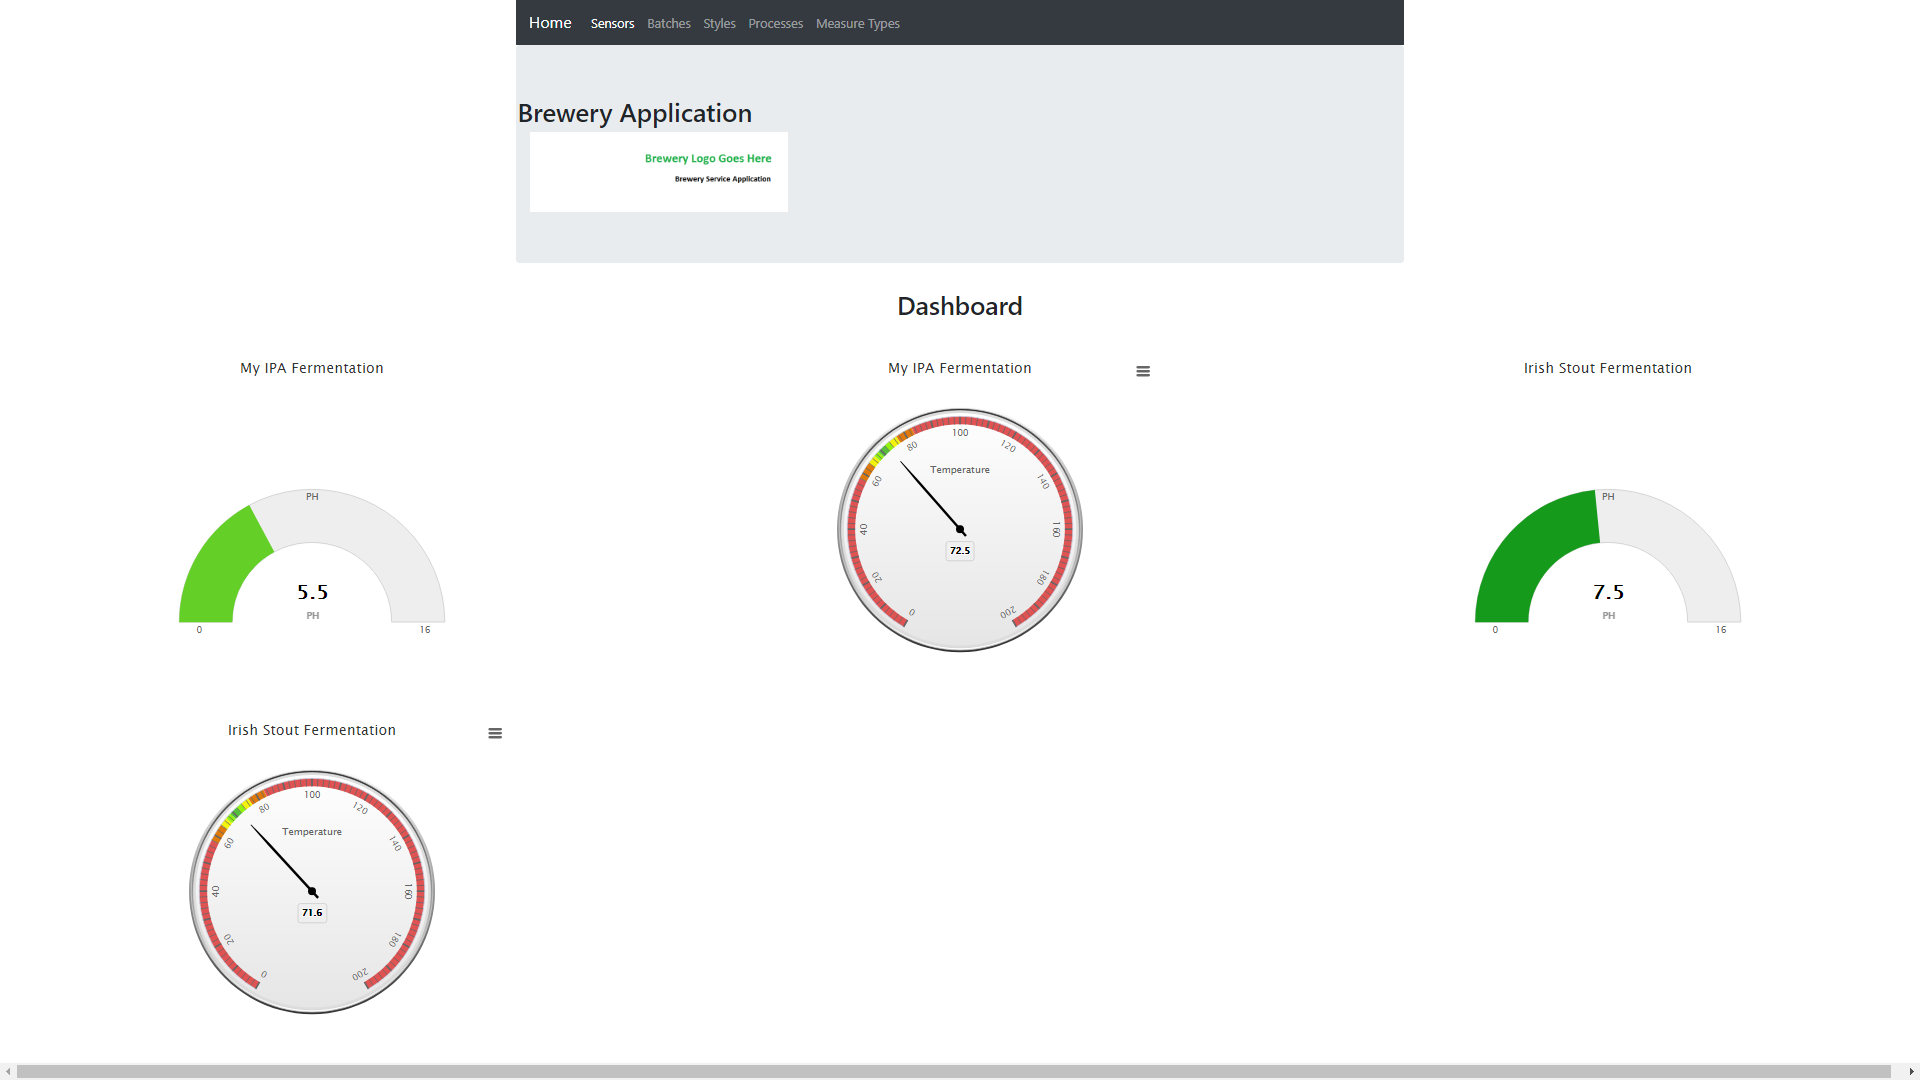
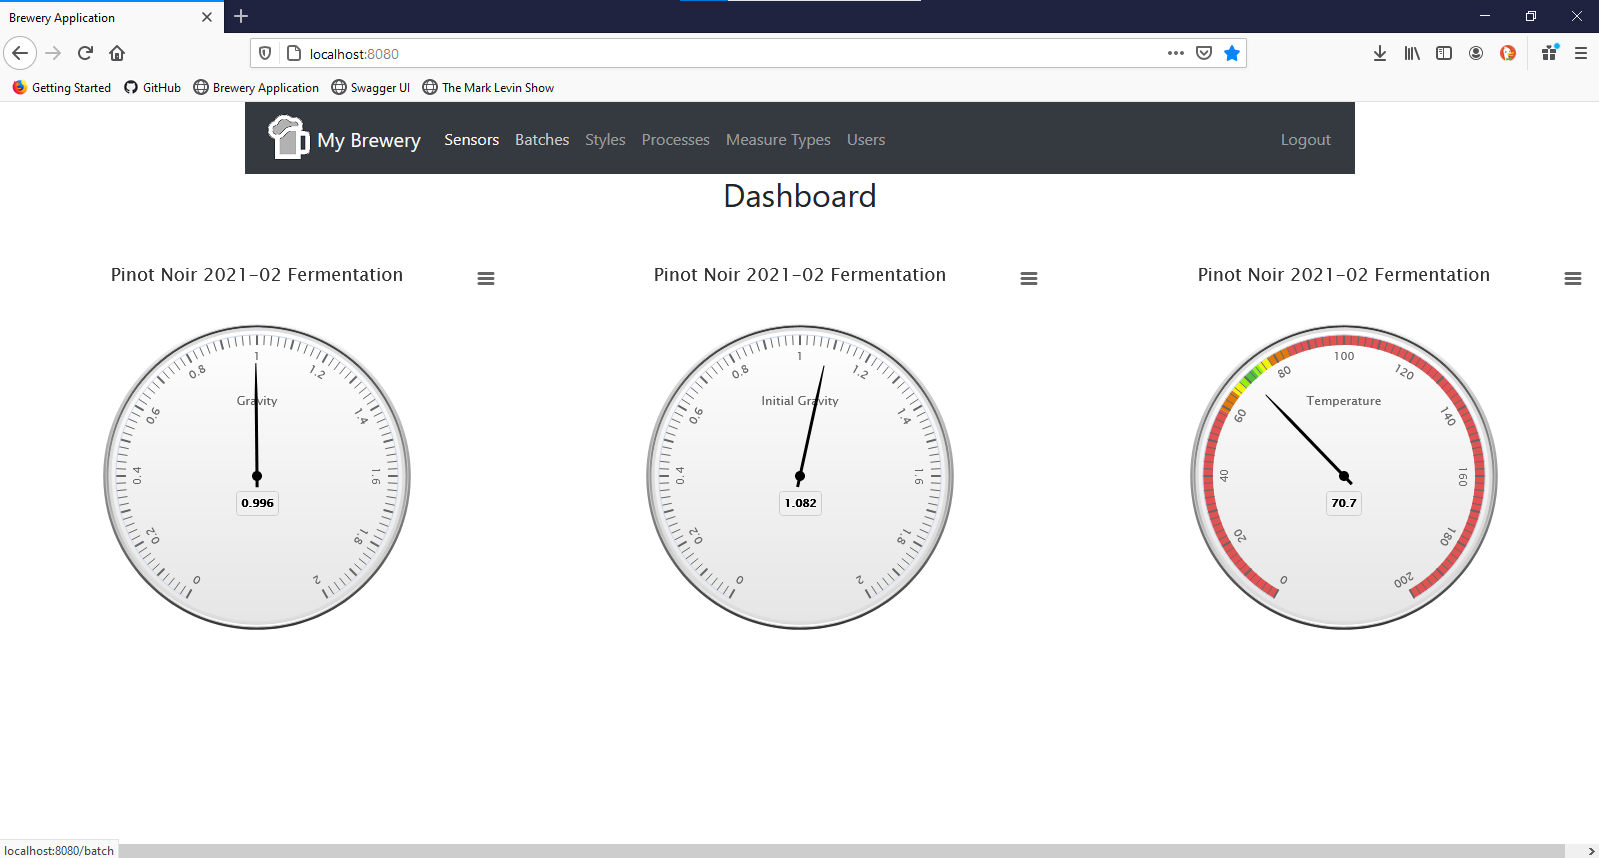
UI Updates

diff --git a/src/main/resources/templates/layout/header.html b/src/main/resources/templates/layout/header.html
@@ -12,7 +12,8 @@
 <div class="container">
     <div th:fragment="header">
 		<nav class="navbar navbar-expand-lg navbar-dark bg-dark">
-        	<a class="navbar-brand" href="#" th:href="@{/}">Home</a>
+			<img th:src="@{/images/TopLogo.png}"/>
+        	<a class="navbar-brand" href="#" th:href="@{/}">My Brewery</a>
       		<button class="navbar-toggler" type="button" data-toggle="collapse" data-target="#navbarsExample04" aria-controls="navbarsExample04" aria-expanded="false" aria-label="Toggle navigation" href="#">
         		<span class="navbar-toggler-icon"></span>
       		</button>
@@ -48,19 +49,6 @@
 				</ul>        		
       		</div>
     	</nav>        
-        
-        
-        <div class="jumbotron">
-            <div class="row text-center">
-                <div class="row">
-                    <h2>Brewery Application</h2>
-                </div>
-            </div>
-            <div class="row text-center">
-                <img src="../../static/images/Logo.png" width="30%"
-                     th:src="@{/images/Logo.png}" />
-            </div>
-        </div>
         
     </div>
 </div>
